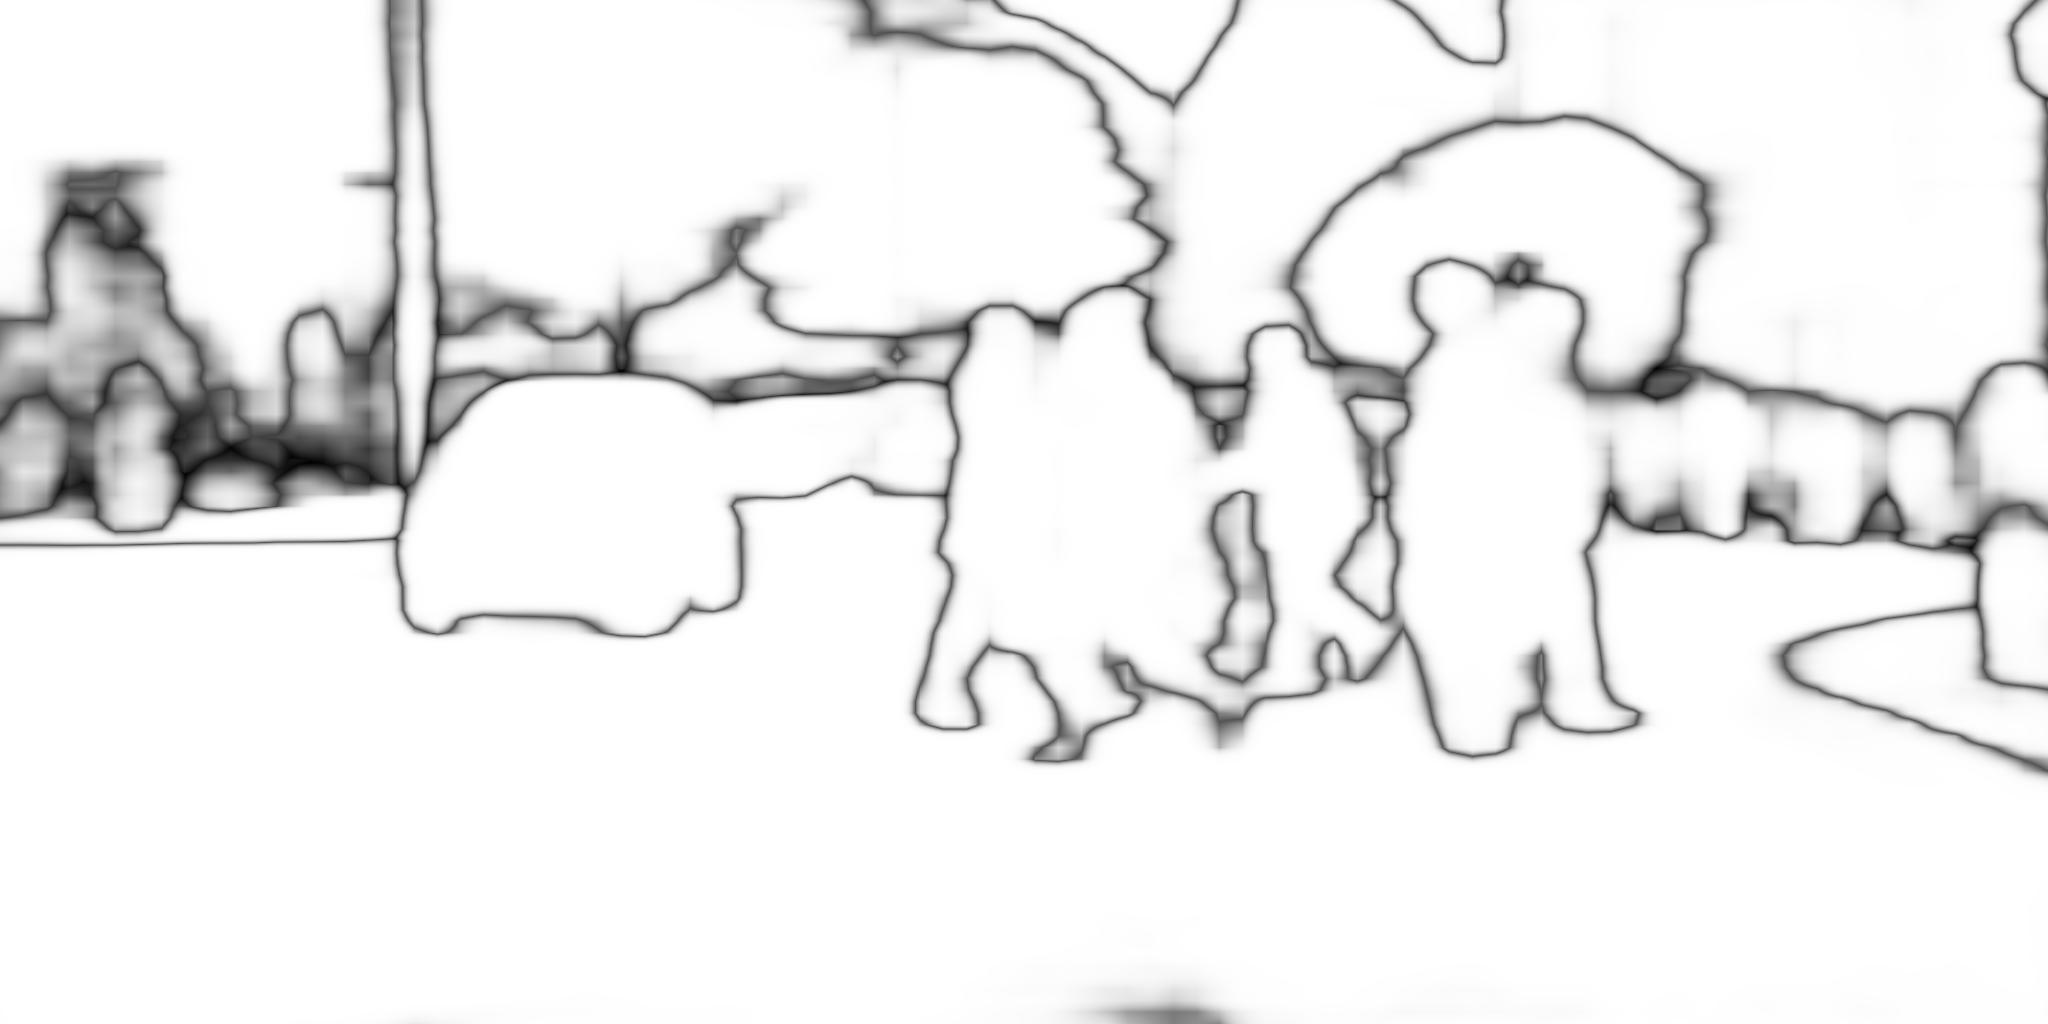
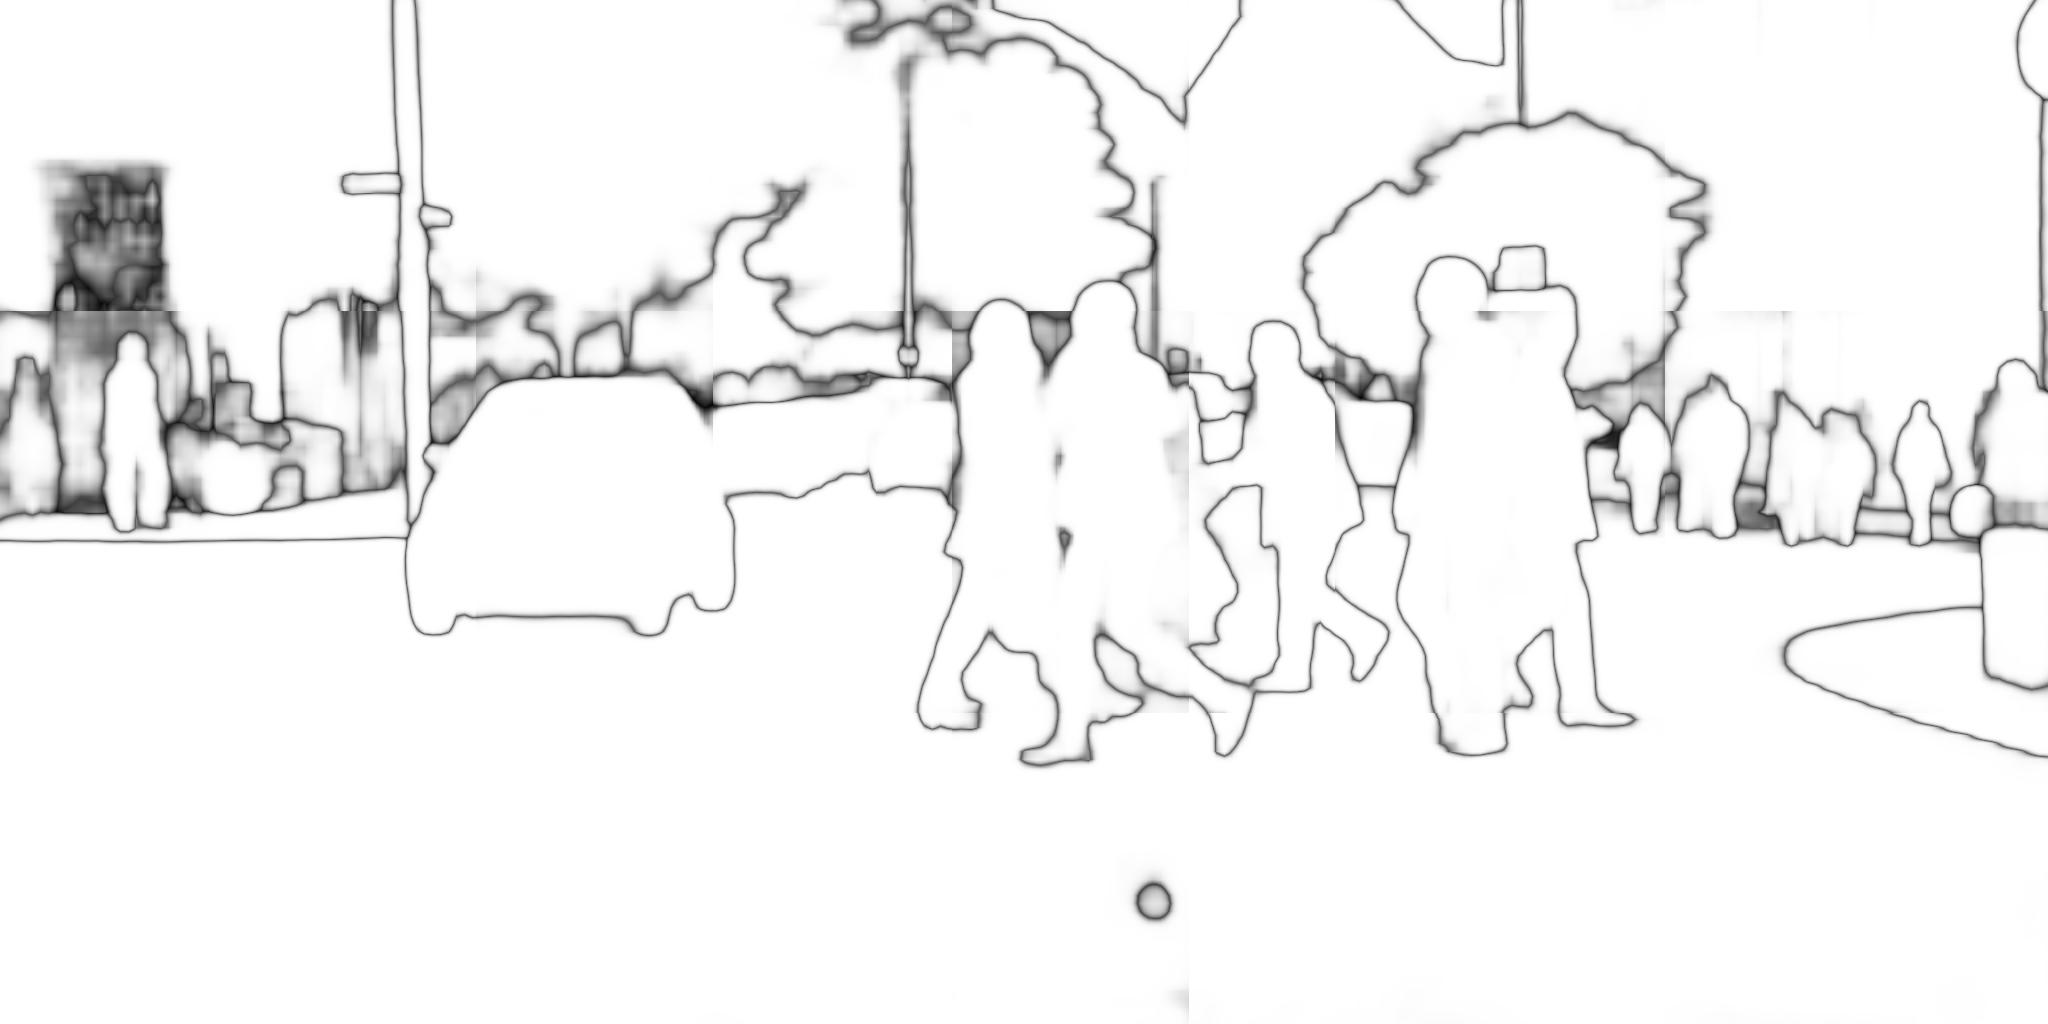
Added sliding evaluation

diff --git a/pspnet.py b/pspnet.py
@@ -1,7 +1,9 @@
 #!/usr/bin/env python
 from __future__ import print_function
-import os
-from os.path import splitext, join
+from __future__ import division
+from os.path import splitext, join, isfile
+from os import environ
+from math import ceil
 import argparse
 import numpy as np
 from scipy import misc, ndimage
@@ -10,19 +12,22 @@ from keras.models import model_from_json
 import tensorflow as tf
 import layers_builder as layers
 import utils
+import matplotlib.pyplot as plt
+
 
 # These are the means for the ImageNet pretrained ResNet
 DATA_MEAN = np.array([[[123.68, 116.779, 103.939]]])  # RGB order
 
 
 class PSPNet(object):
-    """Pyramid Scene Parsing Network by Hengshuang Zhao et al 2017"""
+    """Pyramid Scene Parsing Network by Hengshuang Zhao et al 2017."""
 
     def __init__(self, nb_classes, resnet_layers, input_shape, weights):
+        """Instanciate a PSPNet."""
         self.input_shape = input_shape
         json_path = join("weights", "keras", weights + ".json")
         h5_path = join("weights", "keras", weights + ".h5")
-        if os.path.isfile(json_path) and os.path.isfile(h5_path):
+        if isfile(json_path) and isfile(h5_path):
             print("Keras model & weights found, loading...")
             with open(json_path, 'r') as file_handle:
                 self.model = model_from_json(file_handle.read())
@@ -42,32 +47,32 @@ class PSPNet(object):
             img: must be rowsxcolsx3
         """
         h_ori, w_ori = img.shape[:2]
-
-        # Preprocess
         img = misc.imresize(img, self.input_shape)
-
-        img = img - DATA_MEAN
-        img = img[:, :, ::-1]  # RGB => BGR
-        img = img.astype('float32')
-        print("Predicting...")
-
+        img = self.preprocess_image(img)
         probs = self.feed_forward(img)
         h, w = probs.shape[:2]
         probs = ndimage.zoom(probs, (1.*h_ori/h, 1.*w_ori/w, 1.),
                              order=1, prefilter=False)
-        print("Finished prediction...")
-
         return probs
 
+    def preprocess_image(self, img):
+        """Preprocess an image as input."""
+        float_img = img.astype('float16')
+        centered_image = float_img - DATA_MEAN
+        return centered_image
+
     def feed_forward(self, data):
+        """Pass an image through the network."""
         assert data.shape == (self.input_shape[0], self.input_shape[1], 3)
-        data = data[np.newaxis, :, :, :]
+        data = data[:, :, ::-1]  # RGB => BGR
+        data = data[np.newaxis, :, :, :]  # Append sample dimension for keras
 
         # utils.debug(self.model, data)
         pred = self.model.predict(data)
         return pred[0]
 
     def set_npy_weights(self, weights_path):
+        """Set weights from the intermediary npy file."""
         npy_weights_path = join("weights", "npy", weights_path + ".npy")
         json_path = join("weights", "keras", weights_path + ".json")
         h5_path = join("weights", "keras", weights_path + ".h5")
@@ -75,8 +80,11 @@ class PSPNet(object):
         print("Importing weights from %s" % npy_weights_path)
         weights = np.load(npy_weights_path).item()
 
+        whitelist = ["InputLayer", "Activation", "ZeroPadding2D", "Add", "MaxPooling2D", "AveragePooling2D", "Lambda", "Concatenate", "Dropout"]
+
+        weights_set = 0
         for layer in self.model.layers:
-            print(layer.name)
+            print("Processing %s" % layer.name)
             if layer.name[:4] == 'conv' and layer.name[-2:] == 'bn':
                 mean = weights[layer.name]['mean'].reshape(-1)
                 variance = weights[layer.name]['variance'].reshape(-1)
@@ -85,15 +93,24 @@ class PSPNet(object):
 
                 self.model.get_layer(layer.name).set_weights([mean, variance,
                                                              scale, offset])
-
+                weights_set += 1
             elif layer.name[:4] == 'conv' and not layer.name[-4:] == 'relu':
                 try:
                     weight = weights[layer.name]['weights']
                     self.model.get_layer(layer.name).set_weights([weight])
-                except Exception as err:
+                except Exception:
                     biases = weights[layer.name]['biases']
                     self.model.get_layer(layer.name).set_weights([weight,
                                                                  biases])
+                weights_set += 1
+            elif layer.__class__.__name__ in whitelist:
+                # print("Nothing to set in %s" % layer.__class__.__name__)
+                pass
+            else:
+                print("Warning: Did not find weights for keras layer %s in numpy weights" % layer)
+
+        print("Set a total of %i weights" % weights_set)
+
         print('Finished importing weights.')
 
         print("Writing keras model & weights")
@@ -108,6 +125,7 @@ class PSPNet50(PSPNet):
     """Build a PSPNet based on a 50-Layer ResNet."""
 
     def __init__(self, nb_classes, weights, input_shape):
+        """Instanciate a PSPNet50."""
         PSPNet.__init__(self, nb_classes=nb_classes, resnet_layers=50,
                         input_shape=input_shape, weights=weights)
 
@@ -116,8 +134,56 @@ class PSPNet101(PSPNet):
     """Build a PSPNet based on a 101-Layer ResNet."""
 
     def __init__(self, nb_classes, weights, input_shape):
+        """Instanciate a PSPNet101."""
         PSPNet.__init__(self, nb_classes=nb_classes, resnet_layers=101,
                         input_shape=input_shape, weights=weights)
+
+
+def pad_image(img, target_size):
+    """Pad an image up to the target size."""
+    rows_missing = target_size[0] - img.shape[0]
+    cols_missing = target_size[1] - img.shape[1]
+    padded_img = np.pad(img, ((0, rows_missing), (0, cols_missing), (0, 0)), 'constant')
+    return padded_img
+
+
+def sliding_prediction(full_image, net):
+    """Predict on tiles of exactly the network input shape so nothing gets squeezed."""
+    tile_size = net.input_shape
+    classes = net.model.outputs[0].shape[3]
+    overlap = 1/3
+
+    stride = ceil(tile_size[0] * (1 - overlap))
+    tile_rows = int(ceil((full_image.shape[0] - tile_size[0]) / stride) + 1)  # strided convolution formula
+    tile_cols = int(ceil((full_image.shape[1] - tile_size[1]) / stride) + 1)
+    print("Need %i x %i prediction tiles @ stride %i px" % (tile_cols, tile_rows, stride))
+    full_probs = np.zeros((full_image.shape[0], full_image.shape[1], classes))
+    count_predictions = np.zeros((full_image.shape[0], full_image.shape[1], classes))
+    tile_counter = 0
+    for row in range(tile_rows):
+        for col in range(tile_cols):
+            x1 = int(col * stride)
+            y1 = int(row * stride)
+            x2 = min(x1 + tile_size[1], full_image.shape[1])
+            y2 = min(y1 + tile_size[0], full_image.shape[0])
+            x1 = int(x2 - tile_size[1])
+            y1 = int(y2 - tile_size[0])
+            if x1 < 0: # for portrait the x1 underflows sometimes 
+                x1 = 0
+            img = full_image[y1:y2, x1:x2]
+            padded_img = pad_image(img, tile_size)
+            # plt.imshow(padded_img)
+            # plt.show()
+            tile_counter += 1
+            print("Predicting tile %i" % tile_counter)
+            padded_prediction = net.predict(padded_img)
+            prediction = padded_prediction[0:img.shape[0], 0:img.shape[1], :]
+            count_predictions[y1:y2, x1:x2] += 1
+            full_probs[y1:y2, x1:x2] += prediction  # accumulate the predictions also in the overlapping regions
+
+    # average the predictions in the overlapping regions
+    full_probs /= count_predictions
+    return full_probs
 
 
 if __name__ == "__main__":
@@ -132,9 +198,11 @@ if __name__ == "__main__":
     parser.add_argument('-o', '--output_path', type=str, default='example_results/ade20k.jpg',
                         help='Path to output')
     parser.add_argument('--id', default="0")
+    parser.add_argument('-s', '--sliding_prediction', type=bool, default=False,
+                        help="Whether the network should be slided along the original image for prediction.")
     args = parser.parse_args()
 
-    os.environ["CUDA_VISIBLE_DEVICES"] = args.id
+    environ["CUDA_VISIBLE_DEVICES"] = args.id
 
     sess = tf.Session()
     K.set_session(sess)
@@ -157,7 +225,13 @@ if __name__ == "__main__":
         else:
             print("Network architecture not implemented.")
 
-        probs = pspnet.predict(img)
+        # TODO: implement score flips
+
+        if args.sliding_prediction:
+            probs = sliding_prediction(img, pspnet)
+        else:
+            probs = pspnet.predict(img)
+
         print("Writing results...")
 
         cm = np.argmax(probs, axis=2) + 1

diff --git a/layers_builder.py b/layers_builder.py
@@ -6,8 +6,6 @@ from keras.layers.merge import Concatenate, Add
 from keras.models import Model
 from keras.optimizers import SGD
 
-import tensorflow as tf
-
 learning_rate = 1e-3  # Layer specific learning rate
 # Weight decay not implemented
 
@@ -118,7 +116,7 @@ def ResNet(inp, layers):
     cnv1 = Conv2D(64, (3, 3), strides=(1, 1), padding='same', name=names[2],
                   use_bias=False)(relu1)  # "conv1_2_3x3"
     bn1 = BN(name=names[3])(cnv1)  # "conv1_2_3x3/bn"
-    relu1 = Activation('relu')(bn1)                 # "conv1_2_3x3/relu"
+    relu1 = Activation('relu')(bn1)  # "conv1_2_3x3/relu"
 
     cnv1 = Conv2D(128, (3, 3), strides=(1, 1), padding='same', name=names[4],
                   use_bias=False)(relu1)  # "conv1_3_3x3"
@@ -167,7 +165,6 @@ def ResNet(inp, layers):
 
 
 def interp_block(prev_layer, level, feature_map_shape, str_lvl=1, ):
-
     str_lvl = str(str_lvl)
 
     names = [
@@ -186,7 +183,7 @@ def interp_block(prev_layer, level, feature_map_shape, str_lvl=1, ):
     return prev_layer
 
 
-def PSPNet(res, input_shape):
+def build_pyramid_pooling_module(res, input_shape):
     """Build the Pyramid Pooling Module."""
     # ---PSPNet concat layers with Interpolation
     feature_map_size = tuple(int(ceil(input_dim / 8.0)) for input_dim in input_shape)
@@ -197,7 +194,7 @@ def PSPNet(res, input_shape):
     interp_block3 = interp_block(res, 2, feature_map_size, str_lvl=3)
     interp_block6 = interp_block(res, 1, feature_map_size, str_lvl=6)
 
-    # concat all these layers. resulted shape=(1,60,60,4096)
+    # concat all these layers. resulted shape=(1,feature_map_size_x,feature_map_size_y,4096)
     res = Concatenate()([res,
                          interp_block6,
                          interp_block3,
@@ -212,7 +209,7 @@ def build_pspnet(nb_classes, resnet_layers, input_shape, activation='softmax'):
 
     inp = Input((input_shape[0], input_shape[1], 3))
     res = ResNet(inp, layers=resnet_layers)
-    psp = PSPNet(res, input_shape)
+    psp = build_pyramid_pooling_module(res, input_shape)
 
     x = Conv2D(512, (3, 3), strides=(1, 1), padding="same", name="conv5_4",
                use_bias=False)(psp)

diff --git a/example_images/image_prep.m b/example_images/image_prep.m
@@ -1,0 +1,21 @@
+img = imread('/home/tatsch/PSPNet-Keras-tensorflow/example_images/cityscapes.png');
+crop_size = 713;
+resized = imresize(img, [crop_size crop_size], 'bilinear');
+mean_r = 123.68; %means to be subtracted and the given values are used in our training stage
+mean_g = 116.779;
+mean_b = 103.939;
+
+mean_rgb = [mean_r; mean_g; mean_b];
+mean_rgb = reshape(mean_rgb, 1, 1, 3);
+
+im_mean = repmat(mean_rgb, [crop_size, crop_size, 1]);
+
+resized_f = single(resized);
+demeaned = resized_f - im_mean;
+
+mean_rc = mean(mean(demeaned(:, :, 1)));
+mean_bc = mean(mean(demeaned(:, :, 2)));
+mean_gc = mean(mean(demeaned(:, :, 3)));
+
+figure;
+imshow(demeaned)

diff --git a/weight_converter.py b/weight_converter.py
@@ -34,7 +34,7 @@ for k, v in net.params.items():
         W = np.transpose(W, (2, 3, 1, 0))
         b = v[1].data[...]
         weights[k] = {"weights": W, "biases": b}
-    elif len(v) == 4:
+    elif len(v) == 4:  # Batchnorm layer
         k = k.replace('/', '_')
         mean = v[0].data[...]
         variance = v[1].data[...]

diff --git a/README.md b/README.md
@@ -21,9 +21,7 @@ npy weights should be placed in the directory weights/npy.
 
 The interpolation layer is implemented as custom layer "Interp"
 
-## Important
-
-Results Keras:
+## Keras result:
 ![Original](example_images/ade20k.jpg)
 ![New](example_results/ade20k_seg.jpg)
 ![New](example_results/ade20k_seg_blended.jpg)
@@ -39,14 +37,21 @@ Results Keras:
 ![New](example_results/pascal_voc_seg_blended.jpg)
 ![New](example_results/pascal_voc_probs.jpg)
 
-## Pycaffe result
+## Pycaffe result:
 ![Pycaffe results](example_results/ade20k_seg_pycaffe.jpg)
+
 ## Dependencies:
-1. Tensorflow
+
+
+1. Tensorflow (-gpu)
 2. Keras
 3. numpy
+4. scipy
 4. pycaffe(PSPNet)(optional for converting the weights)
 
+```bash
+pip install -r requirements.txt --upgrade
+```
 
 ## Usage:
 
